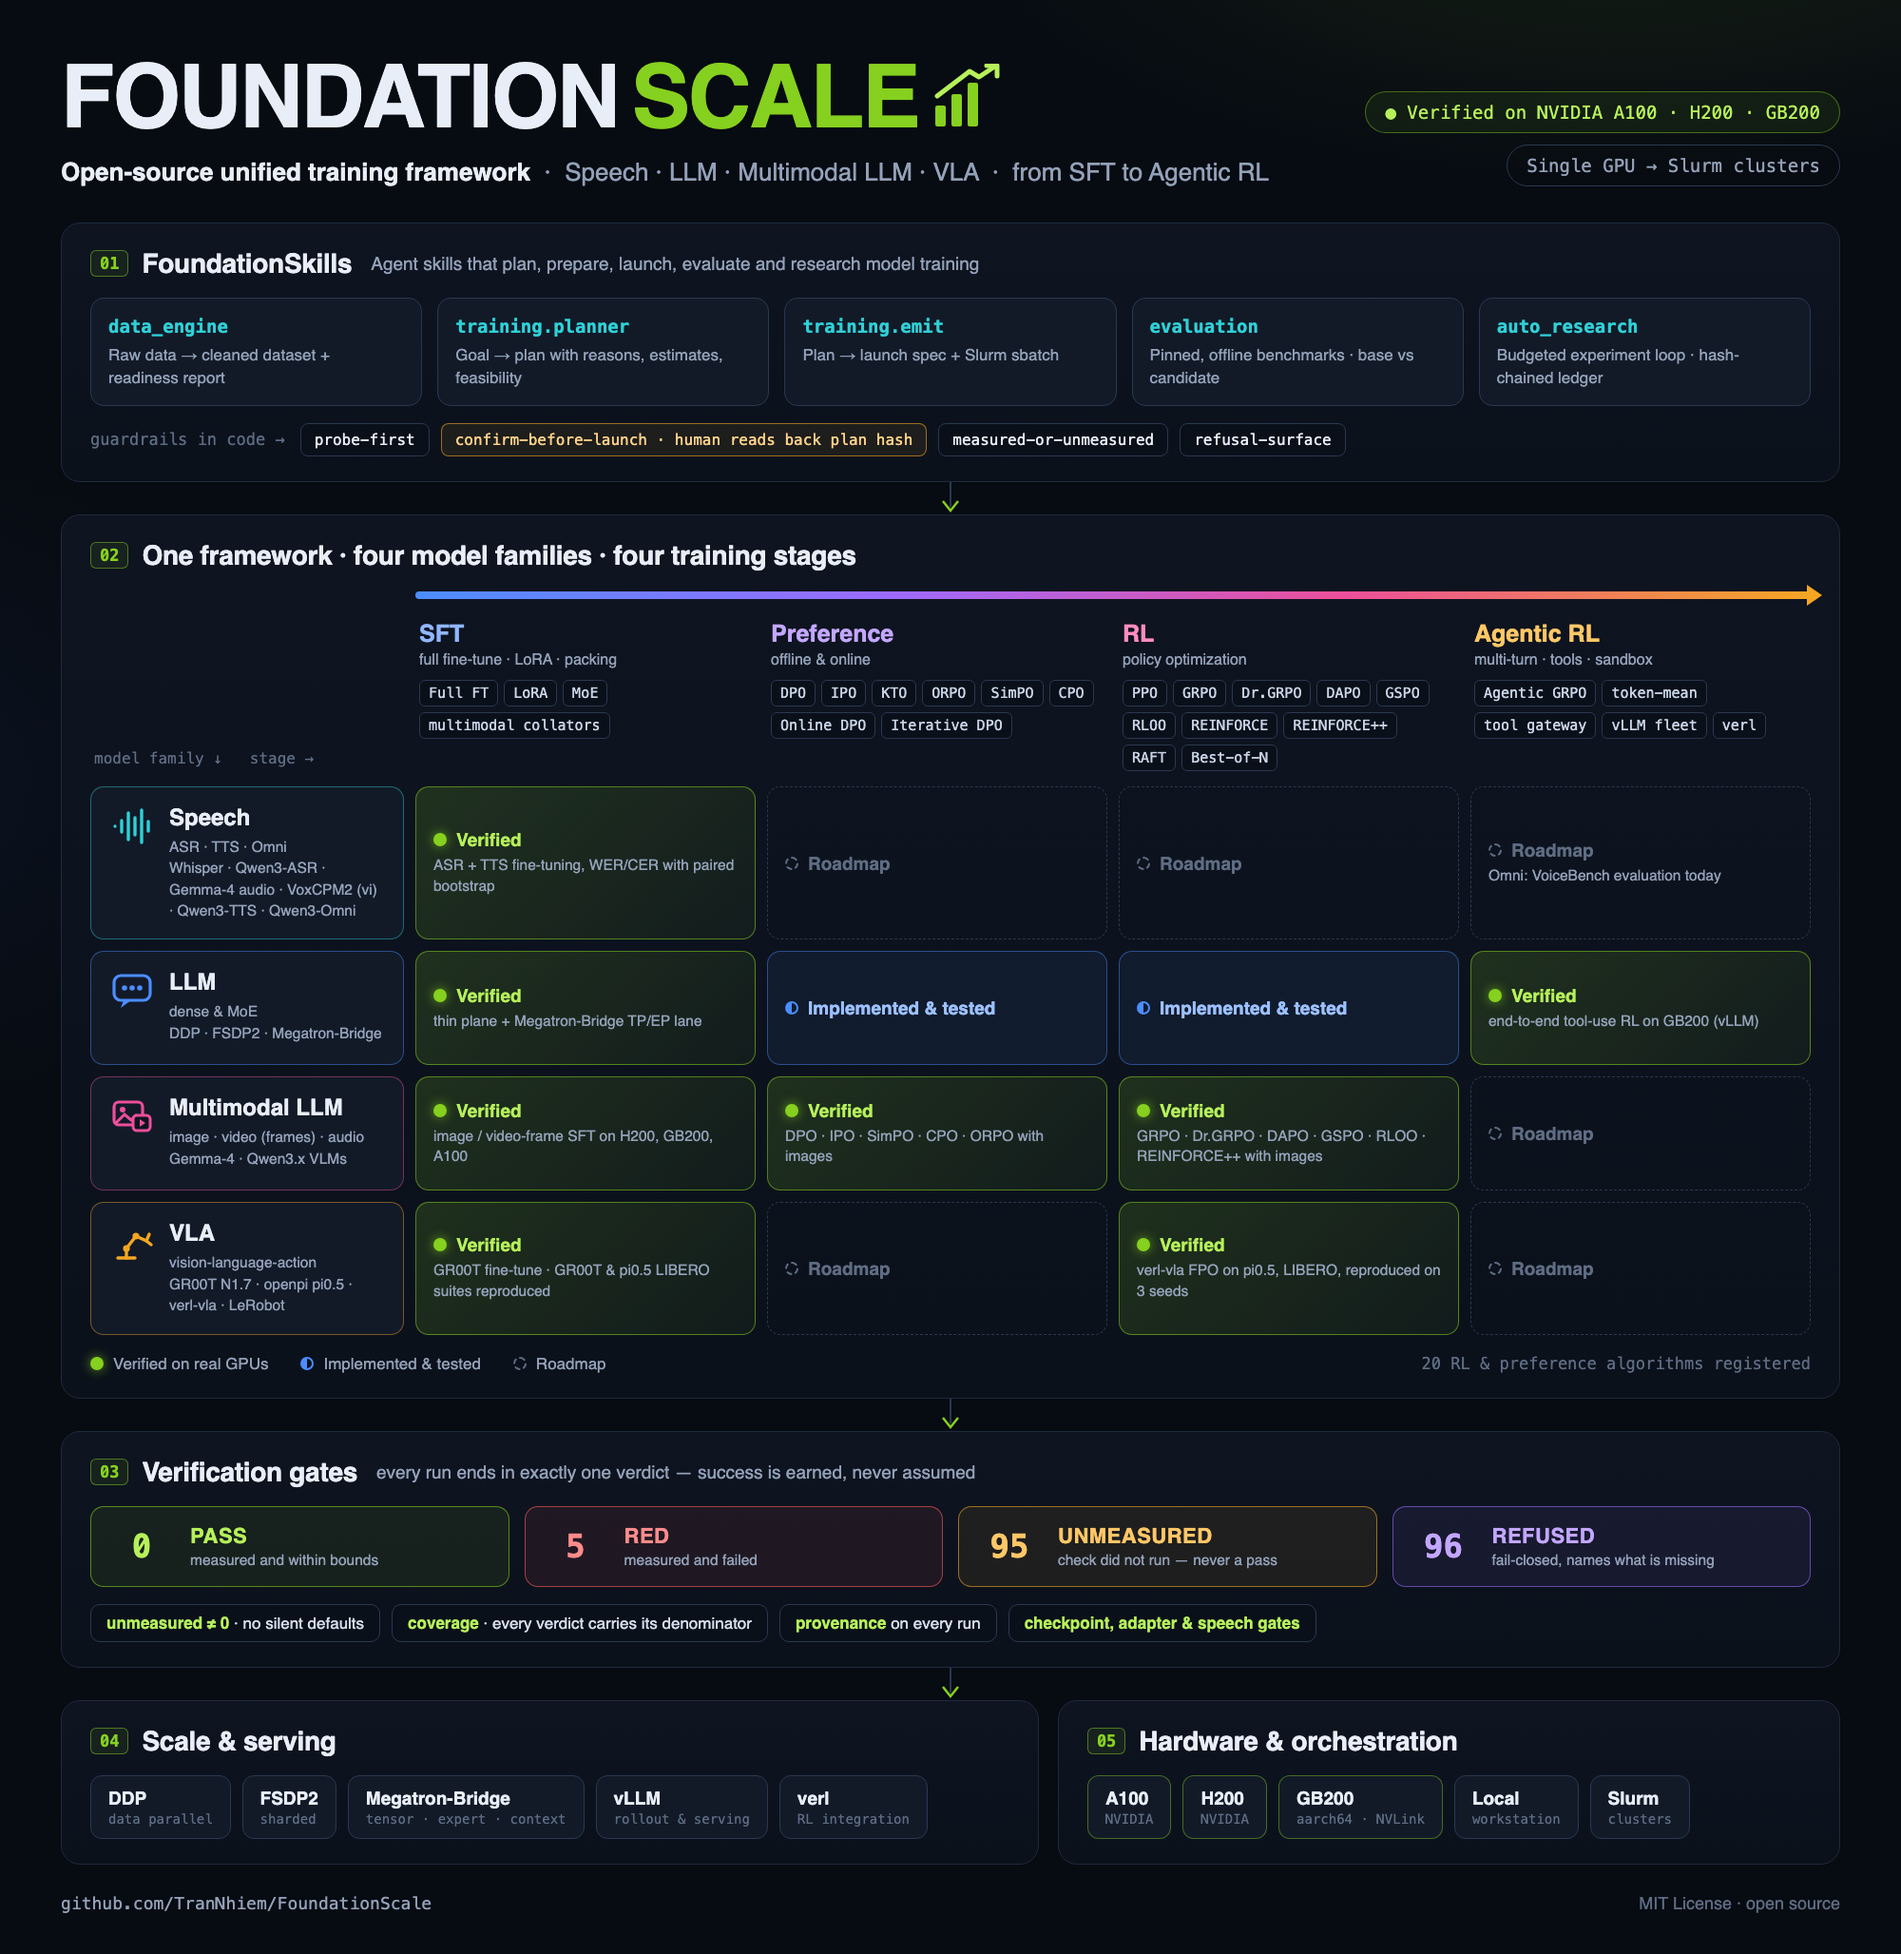
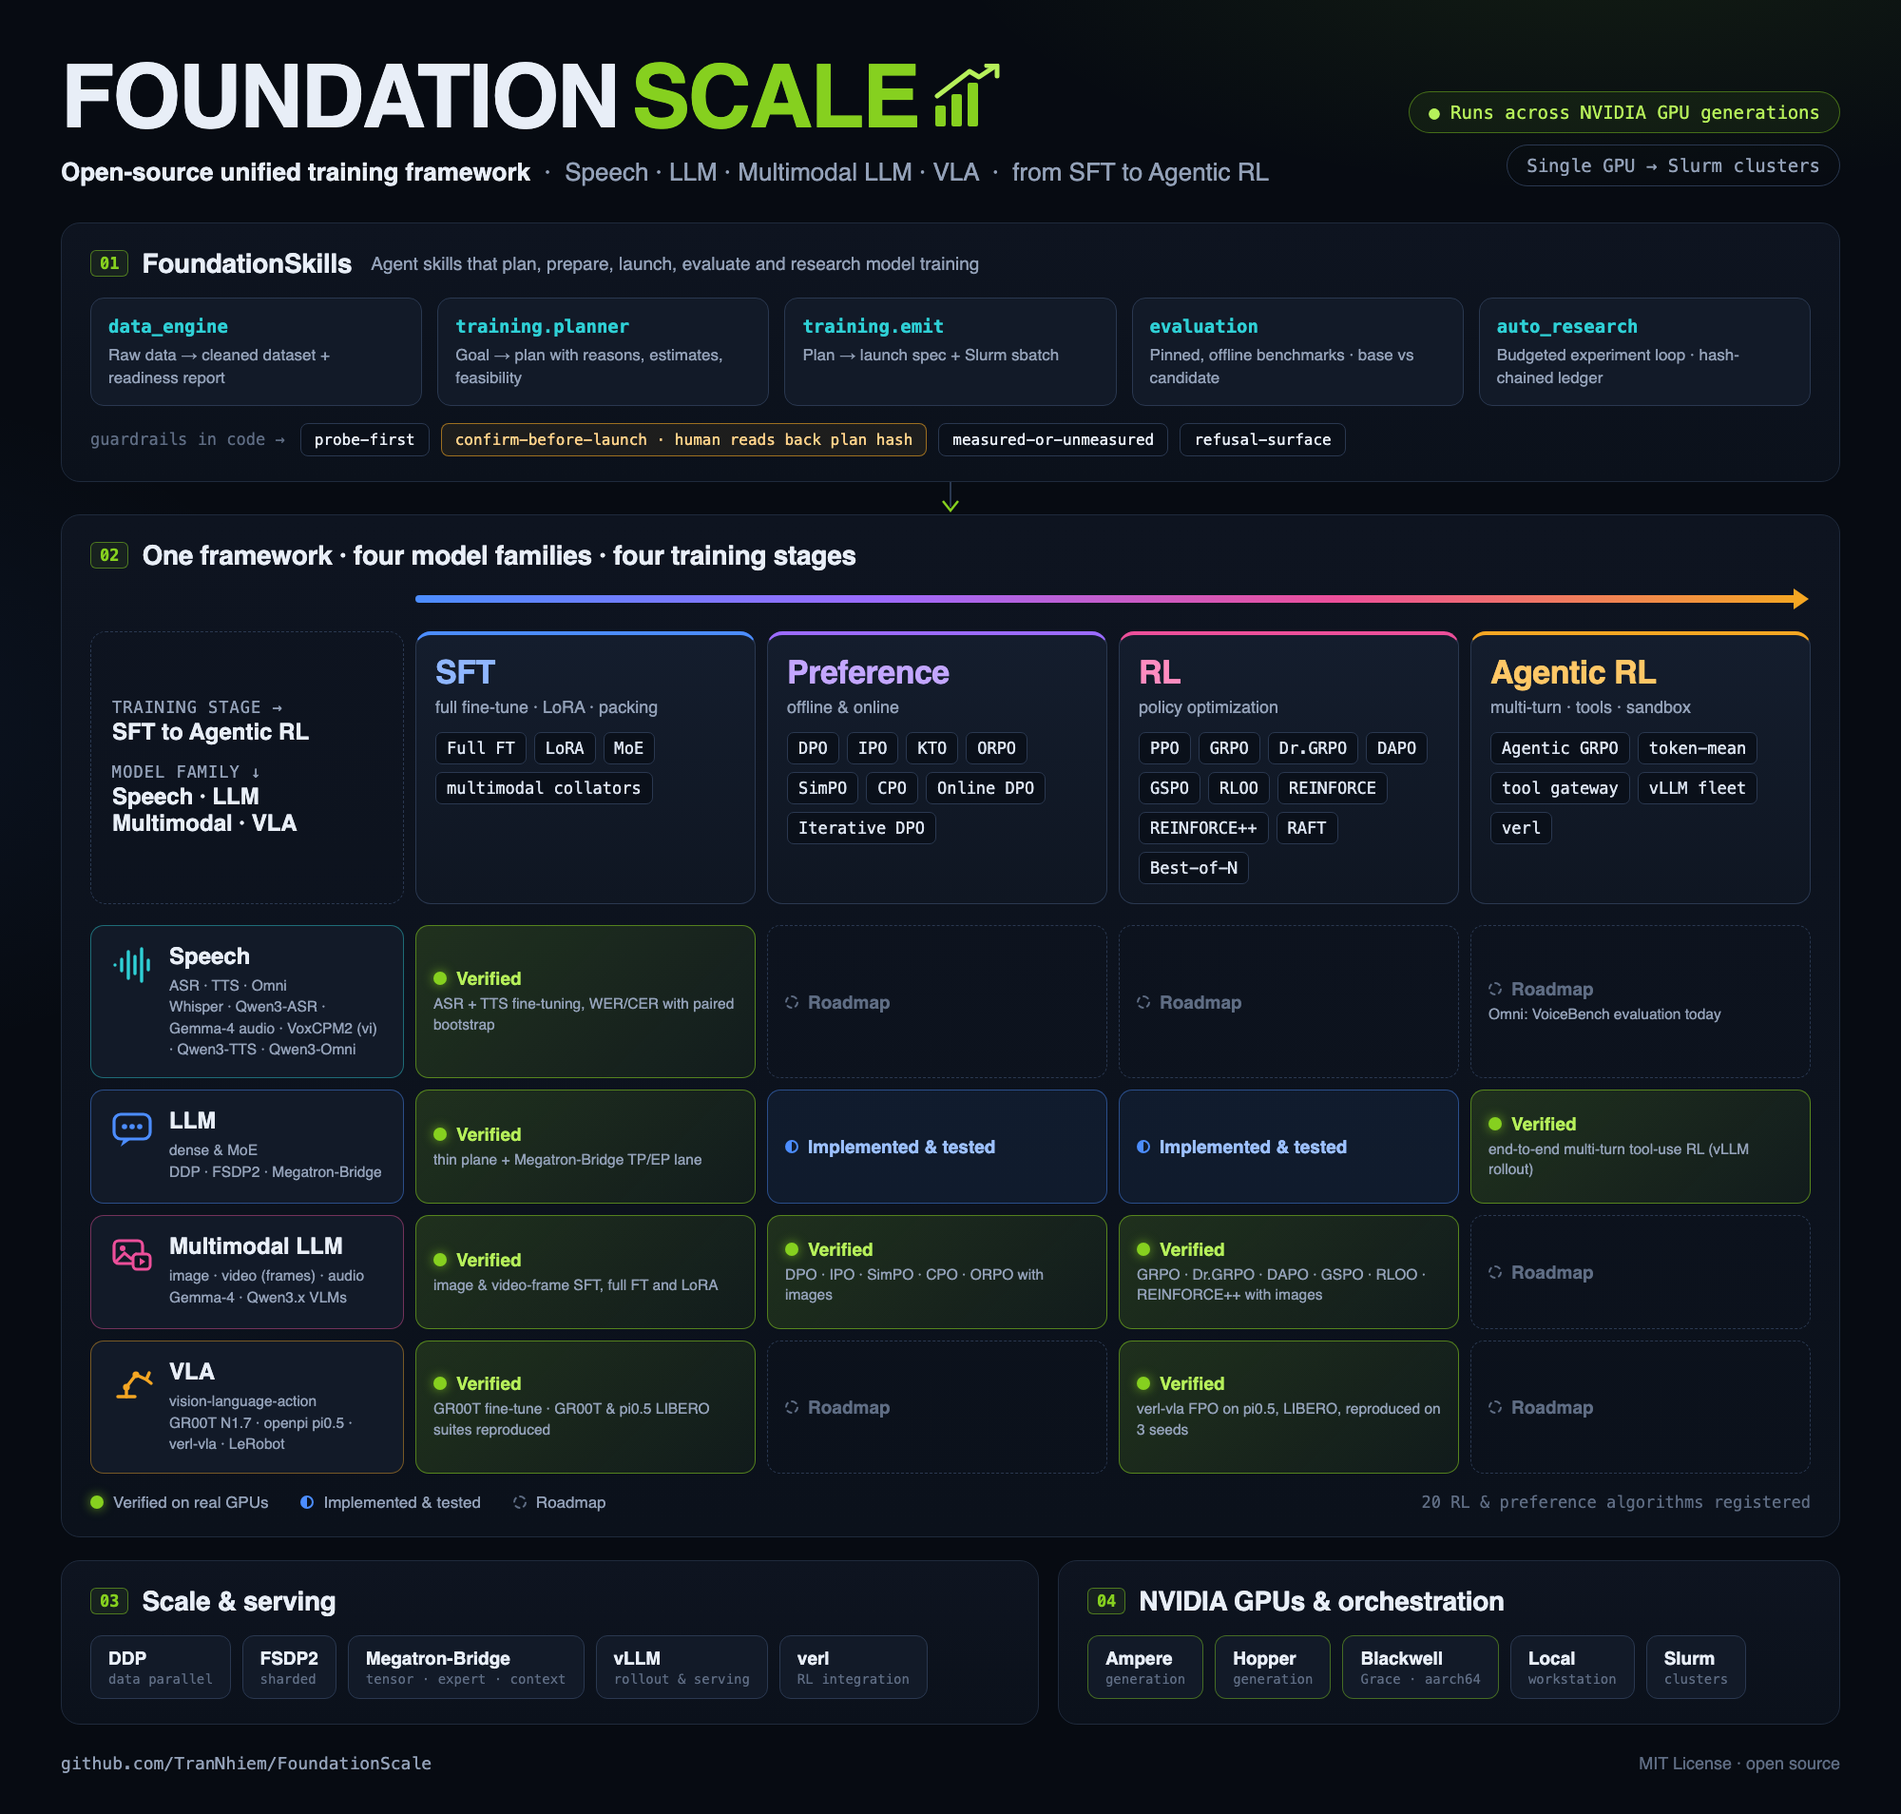
docs: hero names NVIDIA GPU generations, drops the verdict band, larger stages
The examples already show which GPUs each recipe ran on, so the poster
states the generations (Ampere, Hopper, Blackwell) rather than listing
models. The verification-gates band is removed from the hero: it repeated
the README and did not help a first-time reader. The four training-stage
headers become full cards with larger titles and algorithm chips, since
they are the core of the poster.

diff --git a/assets/hero.html b/assets/hero.html
@@ -51,14 +51,17 @@
 
   /* matrix */
   .matrix{display:grid;grid-template-columns:330px repeat(4,1fr);gap:12px}
-  .stagebar{grid-column:2 / 6;height:8px;border-radius:8px;margin:2px 0 4px;
+  .stagebar{grid-column:2 / 6;height:8px;border-radius:8px;margin:6px 14px 18px 0;
     background:linear-gradient(90deg,var(--blue),var(--violet),var(--pink),var(--amber));position:relative}
   .stagebar:after{content:"";position:absolute;right:-12px;top:-7px;border-left:16px solid var(--amber);border-top:11px solid transparent;border-bottom:11px solid transparent}
-  .ch{padding:6px 4px 4px}
-  .ch .st{font-size:25px;font-weight:800}
-  .ch .ss{font-size:16px;color:var(--dim);margin-top:4px}
-  .algs{display:flex;flex-wrap:wrap;gap:6px;margin-top:12px}
-  .a{font-family:var(--mono);font-size:15px;padding:4px 9px;border-radius:6px;background:#0a101a;border:1px solid var(--line2);color:#c9d4e6}
+  .ch{padding:20px 20px 20px;border-radius:16px;border:1px solid var(--line2);border-top:4px solid;background:linear-gradient(180deg,#141d2d,#0f1622);margin-bottom:10px}
+  .ch .st{font-size:34px;font-weight:900;letter-spacing:-.5px}
+  .ch .ss{font-size:18px;color:var(--dim);margin-top:6px}
+  .algs{display:flex;flex-wrap:wrap;gap:8px;margin-top:16px}
+  .a{font-family:var(--mono);font-size:17px;padding:6px 11px;border-radius:7px;background:#0a101a;border:1px solid var(--line2);color:#dbe3f0}
+  .axis{align-self:stretch;margin-bottom:10px;border-radius:16px;border:1px dashed var(--line2);display:flex;flex-direction:column;justify-content:center;gap:18px;padding:20px 22px}
+  .axis div{font-family:var(--mono);font-size:17px;color:var(--dim);letter-spacing:1px}
+  .axis b{display:block;font-family:var(--sans);font-size:24px;color:var(--text);letter-spacing:0;margin-top:2px}
   .fam{border-radius:14px;padding:18px 20px;border:1px solid var(--line2);background:var(--panel2);display:flex;gap:16px;align-items:flex-start}
   .fam svg{flex:none}
   .fam .fn{font-size:24px;font-weight:800}
@@ -94,7 +97,7 @@
   .pr b{color:var(--lime2);font-weight:700}
 
   /* bottom */
-  .bottom{display:grid;grid-template-columns:1.25fr 1fr;gap:20px}
+  .bottom{display:grid;grid-template-columns:1.25fr 1fr;gap:20px;margin-top:24px}
   .chips{display:flex;flex-wrap:wrap;gap:12px}
   .c{font-size:19px;font-weight:600;padding:12px 18px;border-radius:12px;background:var(--panel2);border:1px solid var(--line2)}
   .c small{display:block;font-family:var(--mono);font-size:14px;color:var(--mute);font-weight:500;margin-top:3px}
@@ -114,7 +117,7 @@
     <div class="tag"><b>Open-source unified training framework</b> &nbsp;·&nbsp; Speech · LLM · Multimodal LLM · VLA &nbsp;·&nbsp; from SFT to Agentic RL</div>
   </div>
   <div class="hw">
-    <div class="pill">● Verified on NVIDIA A100 · H200 · GB200</div>
+    <div class="pill">● Runs across NVIDIA GPU generations</div>
     <div class="pill o">Single GPU → Slurm clusters</div>
   </div>
 </header>
@@ -147,14 +150,14 @@
     <div></div>
     <div class="stagebar"></div>
 
-    <div style="align-self:end;padding:0 4px 8px;font-family:var(--mono);font-size:16px;color:var(--mute)">model family ↓ &nbsp; stage →</div>
-    <div class="ch"><div class="st" style="color:#8fb6ff">SFT</div><div class="ss">full fine-tune · LoRA · packing</div>
+    <div class="axis"><div>TRAINING STAGE →<b>SFT to Agentic RL</b></div><div>MODEL FAMILY ↓<b>Speech · LLM<br>Multimodal · VLA</b></div></div>
+    <div class="ch" style="border-top-color:#4c8dff"><div class="st" style="color:#8fb6ff">SFT</div><div class="ss">full fine-tune · LoRA · packing</div>
       <div class="algs"><span class="a">Full FT</span><span class="a">LoRA</span><span class="a">MoE</span><span class="a">multimodal collators</span></div></div>
-    <div class="ch"><div class="st" style="color:#c3a6ff">Preference</div><div class="ss">offline &amp; online</div>
+    <div class="ch" style="border-top-color:#9b6bff"><div class="st" style="color:#c3a6ff">Preference</div><div class="ss">offline &amp; online</div>
       <div class="algs"><span class="a">DPO</span><span class="a">IPO</span><span class="a">KTO</span><span class="a">ORPO</span><span class="a">SimPO</span><span class="a">CPO</span><span class="a">Online DPO</span><span class="a">Iterative DPO</span></div></div>
-    <div class="ch"><div class="st" style="color:#ff8cc0">RL</div><div class="ss">policy optimization</div>
+    <div class="ch" style="border-top-color:#ec4f9a"><div class="st" style="color:#ff8cc0">RL</div><div class="ss">policy optimization</div>
       <div class="algs"><span class="a">PPO</span><span class="a">GRPO</span><span class="a">Dr.GRPO</span><span class="a">DAPO</span><span class="a">GSPO</span><span class="a">RLOO</span><span class="a">REINFORCE</span><span class="a">REINFORCE++</span><span class="a">RAFT</span><span class="a">Best-of-N</span></div></div>
-    <div class="ch"><div class="st" style="color:#ffc766">Agentic RL</div><div class="ss">multi-turn · tools · sandbox</div>
+    <div class="ch" style="border-top-color:#f4a623"><div class="st" style="color:#ffc766">Agentic RL</div><div class="ss">multi-turn · tools · sandbox</div>
       <div class="algs"><span class="a">Agentic GRPO</span><span class="a">token-mean</span><span class="a">tool gateway</span><span class="a">vLLM fleet</span><span class="a">verl</span></div></div>
 
     <!-- Speech -->
@@ -173,13 +176,13 @@
     <div class="cell hwc"><div class="k"><span class="dot f"></span>Verified</div><div class="v">thin plane + Megatron-Bridge TP/EP lane</div></div>
     <div class="cell tst"><div class="k"><span class="dot h"></span>Implemented &amp; tested</div></div>
     <div class="cell tst"><div class="k"><span class="dot h"></span>Implemented &amp; tested</div></div>
-    <div class="cell hwc"><div class="k"><span class="dot f"></span>Verified</div><div class="v">end-to-end tool-use RL on GB200 (vLLM)</div></div>
+    <div class="cell hwc"><div class="k"><span class="dot f"></span>Verified</div><div class="v">end-to-end multi-turn tool-use RL (vLLM rollout)</div></div>
 
     <!-- MLLM -->
     <div class="fam" style="border-color:rgba(236,79,154,.45)">
       <svg width="46" height="46" viewBox="0 0 46 46"><rect x="4" y="8" width="30" height="24" rx="5" fill="none" stroke="#ec4f9a" stroke-width="3.2"/><circle cx="13" cy="16" r="3" fill="#ec4f9a"/><path d="M6 30 L15 21 L22 27 L27 22 L33 28" stroke="#ec4f9a" stroke-width="3" fill="none"/><rect x="24" y="22" width="18" height="16" rx="4" fill="#0e1420" stroke="#ec4f9a" stroke-width="3"/><path d="M31 26 L37 30 L31 34Z" fill="#ec4f9a"/></svg>
       <div><div class="fn">Multimodal LLM</div><div class="fm">image · video (frames) · audio<br>Gemma-4 · Qwen3.x VLMs</div></div></div>
-    <div class="cell hwc"><div class="k"><span class="dot f"></span>Verified</div><div class="v">image / video-frame SFT on H200, GB200, A100</div></div>
+    <div class="cell hwc"><div class="k"><span class="dot f"></span>Verified</div><div class="v">image &amp; video-frame SFT, full FT and LoRA</div></div>
     <div class="cell hwc"><div class="k"><span class="dot f"></span>Verified</div><div class="v">DPO · IPO · SimPO · CPO · ORPO with images</div></div>
     <div class="cell hwc"><div class="k"><span class="dot f"></span>Verified</div><div class="v">GRPO · Dr.GRPO · DAPO · GSPO · RLOO · REINFORCE++ with images</div></div>
     <div class="cell rm"><div class="k"><span class="dot e"></span>Roadmap</div></div>
@@ -201,31 +204,12 @@
   </div>
 </section>
 
-<div class="conn"><svg width="40" height="34"><path d="M20 0 V26" stroke="#2a3850" stroke-width="2"/><path d="M12 20 L20 30 L28 20" stroke="#86d01f" stroke-width="2.5" fill="none"/></svg></div>
 
-<!-- 03 Gates -->
-<section class="sec">
-  <div class="lbl"><span class="num">03</span><h2>Verification gates</h2><span class="sub">every run ends in exactly one verdict — success is earned, never assumed</span></div>
-  <div class="gates">
-    <div class="vd pass"><div class="code">0</div><div><div class="vn">PASS</div><div class="vx">measured and within bounds</div></div></div>
-    <div class="vd red"><div class="code">5</div><div><div class="vn">RED</div><div class="vx">measured and failed</div></div></div>
-    <div class="vd unm"><div class="code">95</div><div><div class="vn">UNMEASURED</div><div class="vx">check did not run — never a pass</div></div></div>
-    <div class="vd ref"><div class="code">96</div><div><div class="vn">REFUSED</div><div class="vx">fail-closed, names what is missing</div></div></div>
-  </div>
-  <div class="princ">
-    <span class="pr"><b>unmeasured ≠ 0</b> · no silent defaults</span>
-    <span class="pr"><b>coverage</b> · every verdict carries its denominator</span>
-    <span class="pr"><b>provenance</b> on every run</span>
-    <span class="pr"><b>checkpoint, adapter &amp; speech gates</b></span>
-  </div>
-</section>
 
-<div class="conn"><svg width="40" height="34"><path d="M20 0 V26" stroke="#2a3850" stroke-width="2"/><path d="M12 20 L20 30 L28 20" stroke="#86d01f" stroke-width="2.5" fill="none"/></svg></div>
-
-<!-- 04/05 -->
+<!-- 03/04 -->
 <div class="bottom">
   <section class="sec">
-    <div class="lbl"><span class="num">04</span><h2>Scale &amp; serving</h2></div>
+    <div class="lbl"><span class="num">03</span><h2>Scale &amp; serving</h2></div>
     <div class="chips">
       <div class="c">DDP<small>data parallel</small></div>
       <div class="c">FSDP2<small>sharded</small></div>
@@ -235,11 +219,11 @@
     </div>
   </section>
   <section class="sec">
-    <div class="lbl"><span class="num">05</span><h2>Hardware &amp; orchestration</h2></div>
+    <div class="lbl"><span class="num">04</span><h2>NVIDIA GPUs &amp; orchestration</h2></div>
     <div class="chips">
-      <div class="c gpu">A100<small>NVIDIA</small></div>
-      <div class="c gpu">H200<small>NVIDIA</small></div>
-      <div class="c gpu">GB200<small>aarch64 · NVLink</small></div>
+      <div class="c gpu">Ampere<small>generation</small></div>
+      <div class="c gpu">Hopper<small>generation</small></div>
+      <div class="c gpu">Blackwell<small>Grace · aarch64</small></div>
       <div class="c">Local<small>workstation</small></div>
       <div class="c">Slurm<small>clusters</small></div>
     </div>

diff --git a/assets/training_stages.html b/assets/training_stages.html
@@ -152,7 +152,7 @@
       </div>
     </div>
     <div class="sbox"><h4>Rollout &amp; scale</h4>
-      <div class="sc"><span class="c2">vLLM</span><span class="c2">verl</span><span class="c2">DDP</span><span class="c2">FSDP2</span><span class="c2">Megatron-Bridge</span><span class="c2">A100 · H200 · GB200</span></div>
+      <div class="sc"><span class="c2">vLLM</span><span class="c2">verl</span><span class="c2">DDP</span><span class="c2">FSDP2</span><span class="c2">Megatron-Bridge</span><span class="c2">NVIDIA Ampere · Hopper · Blackwell</span></div>
     </div>
   </div>
 

diff --git a/README.md b/README.md
@@ -193,9 +193,9 @@ workloads on GB200 (Gemma-4 E4B-it) on 2026-10-07. [-> FoundationSkills/README.m
   enroot container backends (`FS_BACKEND=auto|slurm|enroot` in
   `launchers/fs_container_backend.sh`), one H100 tray. It is a concrete, hardened example,
   not a portable launcher.
-* The poster's hardware row lists only estates with recorded runs: 2×A100
-  (examples/A100_2GPU.md), 2×H200 (validation_campaigns/vlm_2xh200) and GB200 trays, local
-  or under Slurm. DGX Cloud / Lepton and Kubernetes, which an earlier poster showed as design
+* The poster's hardware row names the NVIDIA GPU generations with recorded runs: Ampere
+  (2×A100, examples/A100_2GPU.md), Hopper (2×H200, validation_campaigns/vlm_2xh200) and
+  Blackwell (GB200 trays), local or under Slurm. DGX Cloud / Lepton and Kubernetes, which an earlier poster showed as design
   targets from the audit's scaling work (docs/deliverables/B2_scaling.md), are
   **unmeasured** here and no longer appear on it.
 
